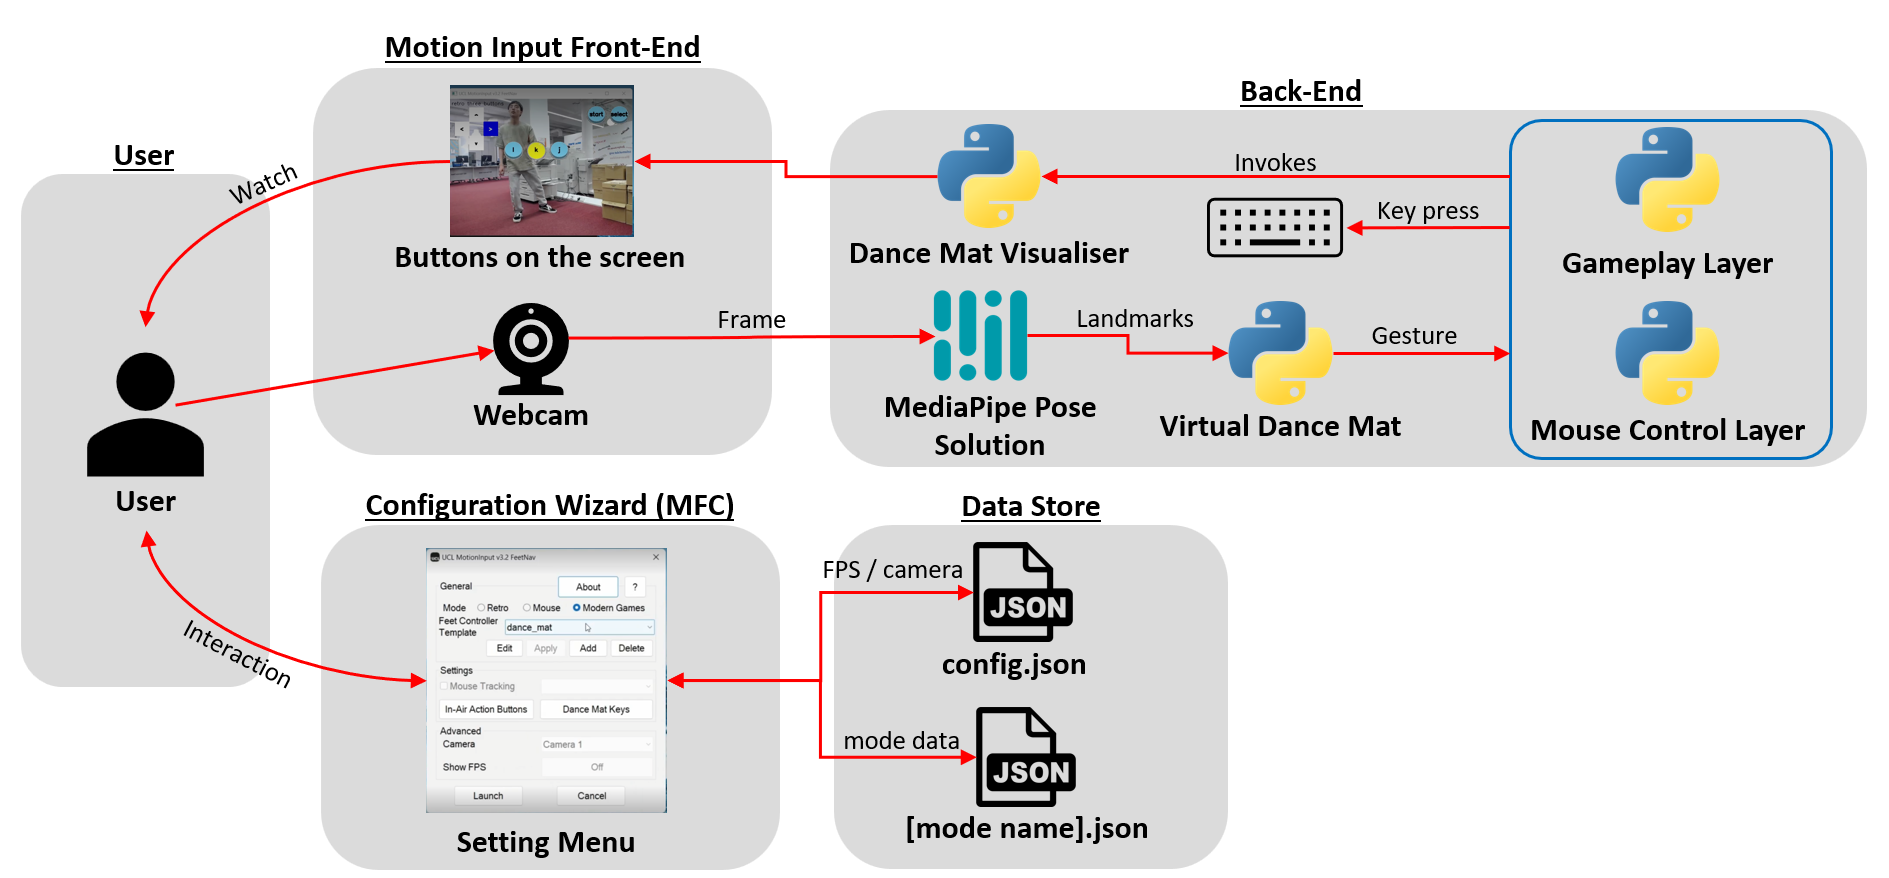
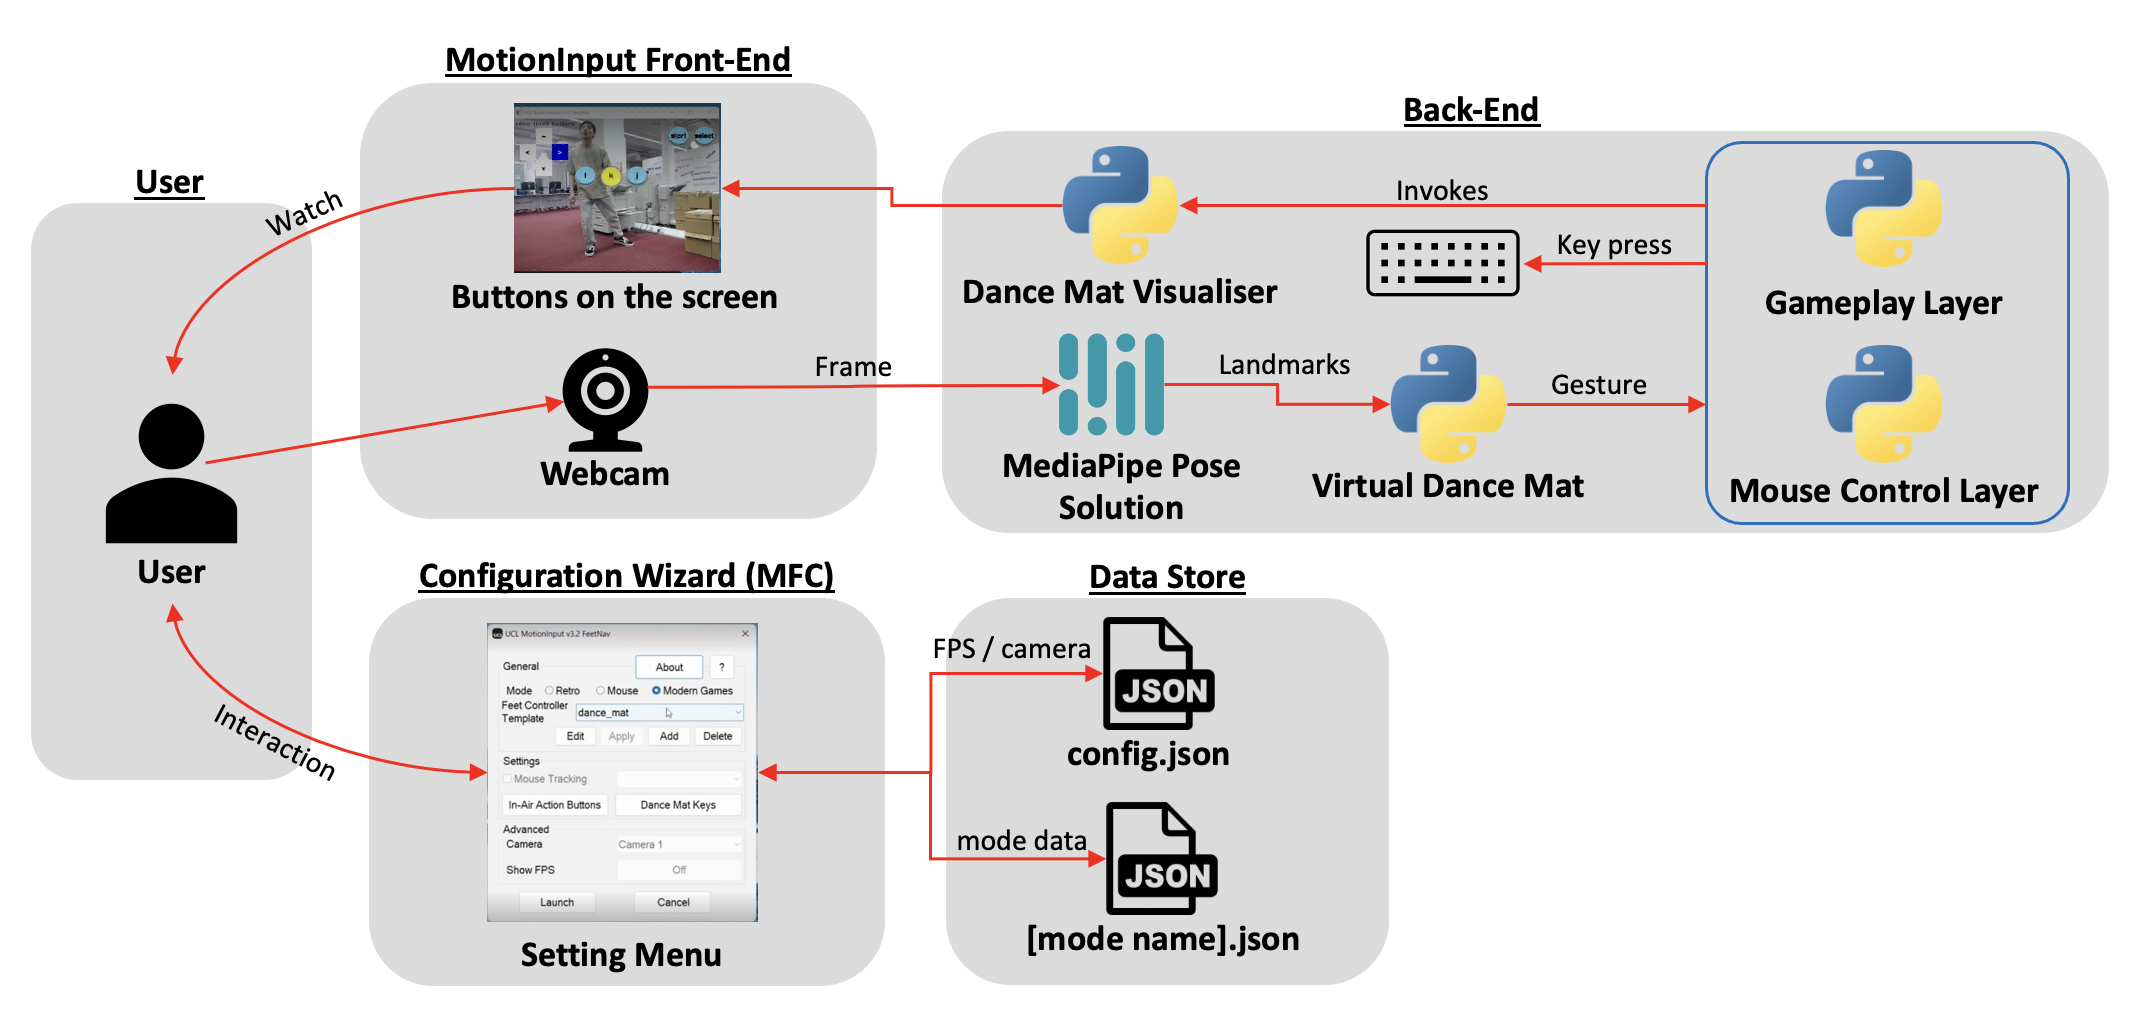
Mainly add system design content

diff --git a/_layouts/home.html b/_layouts/home.html
@@ -1,6 +1,6 @@
 ---
 layout: default
-bodyClass: "page-home"
+bodyClass: 'page-home'
 ---
 
 <div class="intro">
@@ -13,10 +13,14 @@ bodyClass: "page-home"
         {% endif %} -->
       </div>
       {% if page.intro_image %}
-      <div class="col-12 col-md-5 col-lg-6 order-1 order-md-2 position-relative">
-        <img alt="{{ page.title }}"
+      <div
+        class="col-12 col-md-5 col-lg-6 order-1 order-md-2 position-relative"
+      >
+        <img
+          alt="{{ page.title }}"
           class="intro-image{% if page.intro_image_absolute %} intro-image-absolute{% endif %}{% if page.intro_image_hide_on_mobile %} intro-image-hide-mobile{% endif %}"
-          src="{{ page.intro_image | relURL }}" />
+          src="{{ page.intro_image | relURL }}"
+        />
       </div>
       {% endif %}
     </div>
@@ -24,28 +28,50 @@ bodyClass: "page-home"
 </div>
 
 <!-- Abstract -->
-<div class="container pb-6 pt-6 pt-md-10 pb-md-10">
+<div class="container pb-3 pt-3 pt-md-5 pb-md-5">
   <div class="row justify-content-center">
     <div class="col-12 col-md-12">
       <div class="service service-single">
         <h1>Abstract</h1>
         <div class="content">
-          <p>Our team is part of the MotionInput (MI) V3.2, and our innovative Feet Navigation project
-            aims to enhance the accessibility of gaming for people with limited upper-body movements.</p>
-          <p>FeetNav is the first ever lower body focused module in MI, we use the metaphor of a dance-mat based game as a
-            controller interface, allowing people to navigate a cursor to control the browser, or move a game character in
-            games by placing their feet in forward, backward, left, and right motions.</p>
-          <p>In addition to enhancing accessibility for people with disabilities, our project also provides a fun way for
-            children, elderly people, or patients in rehabilitation to exercise their lower body muscles. By using our
-            software, they can enjoy their favourite games while also engaging in physical activity.</p>
+          <p>
+            Our team is part of the MotionInput (MI) V3.2, and our innovative
+            Feet Navigation project aims to enhance the accessibility of gaming
+            for people with limited upper-body movements.
+          </p>
+          <p>
+            FeetNav is the first ever lower body focused module in MI, we use
+            the metaphor of a dance-mat based game as a controller interface,
+            allowing people to navigate a cursor to control the browser, or move
+            a game character in games by placing their feet in forward,
+            backward, left, and right motions.
+          </p>
+          <p>
+            In addition to enhancing accessibility for people with disabilities,
+            our project also provides a fun way for children, elderly people, or
+            patients in rehabilitation to exercise their lower body muscles. By
+            using our software, they can enjoy their favourite games while also
+            engaging in physical activity.
+          </p>
         </div>
         <h1>Features</h1>
         <h3>Gaming With Your Feet (Game mode of virtual dance-mat)</h3>
-        <p>Use a dance-mat like interface, allowing users to play games with only feet. Use your foot gestures to trigger the keys on keyboard and move characters in any direction.</p>
+        <p>
+          Use a dance-mat like interface, allowing users to play games with only
+          feet. Use your foot gestures to trigger the keys on keyboard and move
+          characters in any direction.
+        </p>
         <h3>Browser Controller (Mouse mode of virtual dance-mat)</h3>
-        <p>When triggering the corresponding arrow button with foot gesture, it’s able move the cursor up, down, left and right.</p>
+        <p>
+          When triggering the corresponding arrow button with foot gesture, it’s
+          able move the cursor up, down, left and right.
+        </p>
         <h3>Combinations with existing features in MI</h3>
-        <p>It is possible to incorporate personalised combinations of gesture controls from different body parts (additional to FeetNav), such as using hand gestures to trigger in-air buttons.</p>
+        <p>
+          It is possible to incorporate personalised combinations of gesture
+          controls from different body parts (additional to FeetNav), such as
+          using hand gestures to trigger in-air buttons.
+        </p>
       </div>
     </div>
   </div>
@@ -53,34 +79,46 @@ bodyClass: "page-home"
 
 <!-- Youtube Video -->
 <div class="strip strip-grey">
-  <div class="container pt-6 pb-6 pt-md-10 pb-md-10">
+  <div class="container pt-3 pb-3 pt-md-5 pb-md-5">
+    <h1 class="row justify-content-center">Project Introduction Video</h1>
     <div class="row justify-content-center">
-      <iframe width="560" height="315" src="https://youtu.be/p0nkcKAdiew" title="YouTube video player"
+      <iframe
+        width="560"
+        height="315"
+        src="https://www.youtube.com/embed/p0nkcKAdiew"
+        title="YouTube video player"
         frameborder="0"
         allow="accelerometer; autoplay; clipboard-write; encrypted-media; gyroscope; picture-in-picture; web-share"
-        allowfullscreen></iframe>
+        allowfullscreen
+      ></iframe>
     </div>
   </div>
 </div>
 
 <!-- Team Members -->
-<div class="container pt-6 pb-6">
+<div class="container pt-3 pb-3">
   <div class="row">
-    {% assign teams = site.team | sort: "weight" %}
-    {% for team in teams %}
+    {% assign teams = site.team | sort: "weight" %} {% for team in teams %}
     <div class="col-12 col-md-6 mb-2">
       <div class="team team-summary team-summary-large">
         {% if team.image %}
         <div class="team-image">
-          <img width="90" height="90" alt="{{ team.title }}" class="img-fluid mb-2"
-            src="{{ team.image | relative_url }}" />
+          <img
+            width="90"
+            height="90"
+            alt="{{ team.title }}"
+            class="img-fluid mb-2"
+            src="{{ team.image | relative_url }}"
+          />
         </div>
         {% endif %}
         <div class="team-meta">
-          <h2 class="team-name"><a href="{{ team.url | relative_url }}">{{ team.title }}</a></h2>
+          <h2 class="team-name">{{ team.title }}</h2>
           <p class="team-description">{{ team.jobtitle }}</p>
           {% if team.linkedinurl %}
-          <a target="_blank" href="{{ team.linkedinurl }}" rel="noreferrer">LinkedIn</a>
+          <a target="_blank" href="{{ team.linkedinurl }}" rel="noreferrer"
+            >LinkedIn</a
+          >
           {% endif %}
         </div>
         <div class="team-content">{{ team.content | truncate: 120 }}</div>
@@ -92,13 +130,13 @@ bodyClass: "page-home"
 
 <!-- Project Management -->
 <div class="strip strip-grey">
-  <div class="container pb-6 pt-6 pt-md-10 pb-md-10">
+  <div class="container pb-3 pt-3 pt-md-5 pb-md-5">
     <div class="row justify-content-center">
       <div class="col-12 col-md-12">
         <div class="service service-single">
           <h1>Project Management</h1>
           <div class="content img-fluid">
-            <img src="images/gantt-chart.png" alt="gantt chart">
+            <img src="images/gantt-chart.png" alt="gantt chart" />
           </div>
         </div>
       </div>

diff --git a/_includes/header.html b/_includes/header.html
@@ -1,11 +1,12 @@
 <div class='header'>
   <div class="container">
-    <div class="logo">
+    <!-- <div class="logo">
       <a href="{{ site.baseurl }}"><img width="{{ site.logo.desktop_width }}" height="{{ site.logo.desktop_height }}" alt="{{ site.title }}" src="{{ site.logo.desktop | relative_url }}" /></a>
     </div>
     <div class="logo-mobile">
       <a href="{{ site.baseurl }}"><img width="{{ site.logo.mobile_width }}" height="{{ site.logo.mobile_height }}" alt="{{ site.title }}" src="{{ site.logo.mobile | relative_url }}" /></a>
-    </div>
+    </div> -->
+    <a href="{{ site baseurl }}">{{ site.title }}</a>
     {% include main-menu.html %}
     {% include hamburger.html %}
   </div>

diff --git a/_layouts/default.html b/_layouts/default.html
@@ -5,7 +5,7 @@
   <meta charset="utf-8">
   <title>{% if page.title %}{{page.title}}{% else %}{{ site.title | escape }}{% endif %}</title>
   <meta name="viewport" content="width=device-width, initial-scale=1" />
-  <link rel="icon" type="image/png" href="{{ '/images/favicon-32x32.svg' | relative_url }}">
+  <link rel="icon" type="image/png" href="{{ '/images/favicon.ico' | relative_url }}">
   <!-- Google Fonts CDN -->
   <link rel="preconnect" href="https://fonts.googleapis.com">
   <link rel="preconnect" href="https://fonts.gstatic.com" crossorigin>

diff --git a/assets/css/style.scss b/assets/css/style.scss
@@ -17,7 +17,7 @@ $link-hover-color: lighten($primary, 10%);
 $link-hover-decoration: underline;
 
 // Fonts
-$font-family-base: Helvetica, Arial, sans-serif, -apple-system;
+$font-family-base: 'Roboto', Arial, sans-serif, -apple-system;
 $font-family-heading: "Playfair Display", serif, -apple-system;
 
 // Footer

diff --git a/system-design.md b/system-design.md
@@ -6,6 +6,15 @@ description: System Design
 
 ![](../images/system_design1.png)
 
-[TODO: write a brief description of each component.]
+The diagram above shows the basic components of the system and the flow of interaction/data between them.
+
+The system can be divided into 5 main categories:
+* **User**: The user is the person who is using the system. The user can use MotionInput by moving their body.
+* **MotionInput Front-End**: Front-end side is where users can actually see and interact with MotionInput. Users can see the buttons and other visuals on the screen and interact with them by moving their body.
+* **MotionInput Back-End**: Back-end side controls the judgement of the user's motion with MediaPipe's Pose solution and Virtual Dance Mat, and sends the result to either the gameplay layer or mouse control layer depending on the user's setting. The layers press the key input and also trigger the dance mat visualiser which controls the front-end side.
+* **Configuration Wizard**: Using the separate program written in MFC, the user can change the mode for different games because different games require different settings. Some games might require the mouse tracking feature or another game might require 4 in-air action keys. Users can change the setting easily by clicking several times and save, load, or delete the settings.
+* **Data Store**: Storing the data plays an important role since every setting of users and other system data needed to run MotionInput seamlessly are stored in files. `config.json` file stores the general system data for MotionInput such as whether showing FPS and which camera to use in MotionInput.
 
 ![](../images/system_design2.png)
+
+The diagram above is another way to show our system design. Additional component shown here is Hand Jitter Stabilisation which deals with severe hand jittering to increase the accuracy of the system.

diff --git a/_team/minghui-cai.md b/_team/minghui-cai.md
@@ -2,7 +2,7 @@
 title: "Minghui Cai"
 date: 2018-11-19T10:47:58+10:00
 image: "images/team/minghui.jpeg"
-jobtitle: "Lead Developer / Client Liaison / Report Editor"
+jobtitle: "Lead Developer / Tester / Report Editor"
 linkedinurl: "https://www.linkedin.com/in/minghui-cai/"
 promoted: true
 weight: 2
